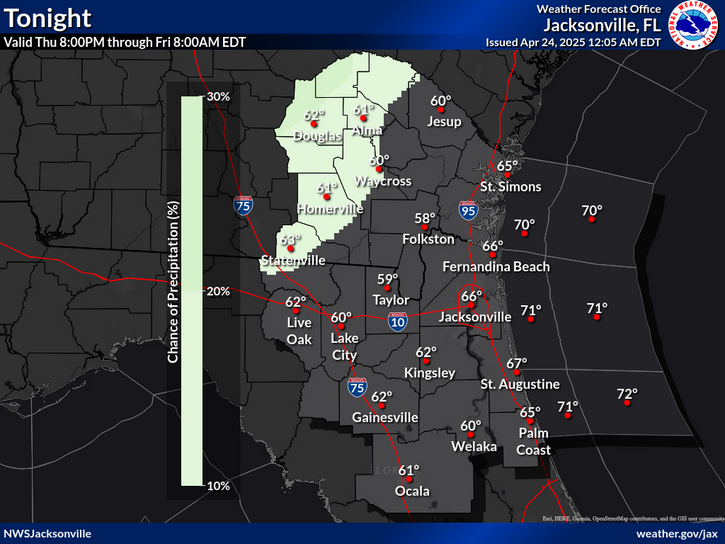
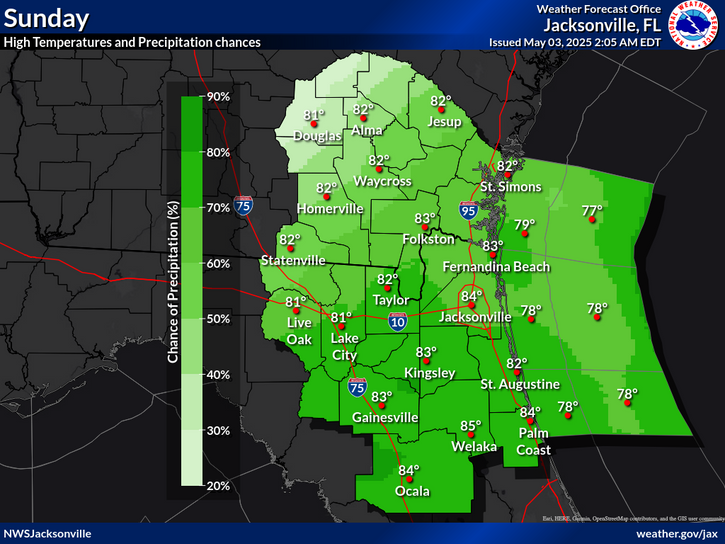
fixed bug causing bot command interference

diff --git a/python/main.py b/python/main.py
@@ -46,7 +46,7 @@ print("GPT-2 model loaded!")  # Debugging print
 
 # Define the bot's personality
 BOT_PERSONA = (
-    "A really witty and very funny & helpful bot is joking around in a groupchat with a bunch of his buddies."
+    "A really clever and very funny & kind bot is joking around in a groupchat with a bunch of his buddies."
 )
 
 async def generate_ai_response(user_message):
@@ -114,7 +114,7 @@ class Client(discord.Client):
                 await message.channel.send("idiot")
                 return
         
-        # Trigger GPT-2 only if " mr bot" is in the message
+        # Trigger GPT-2 only if "mr bot" is in the message
         if ("mr" in message.content.lower() and "bot" in message.content.lower()) or "jarvis" in message.content.lower() or "siri" in message.content.lower():
             print(f"GPT-2 Triggered by: {message.content}")  # ✅ Debugging line
             #await message.channel.send("thinking...")
@@ -176,7 +176,7 @@ class Client(discord.Client):
         if message.content.lower() == "westside":
             await message.channel.send("jville")
 
-        if "weather tomorrow" in message.content.lower() or "weathertomorrow" or "weathertm" in message.content.lower():
+        if "weather tomorrow" in message.content.lower() or "weathertomorrow" in message.content.lower() or "weathertm" in message.content.lower():
             await message.channel.send("checking nws")
             subprocess.run(["Rscript", os.path.join(R_PATH, "weatherTm.R")])
             await message.channel.send("here ya go:", file=discord.File(os.path.join(OUTPUT_PATH, "weather/weatherTm.png")))